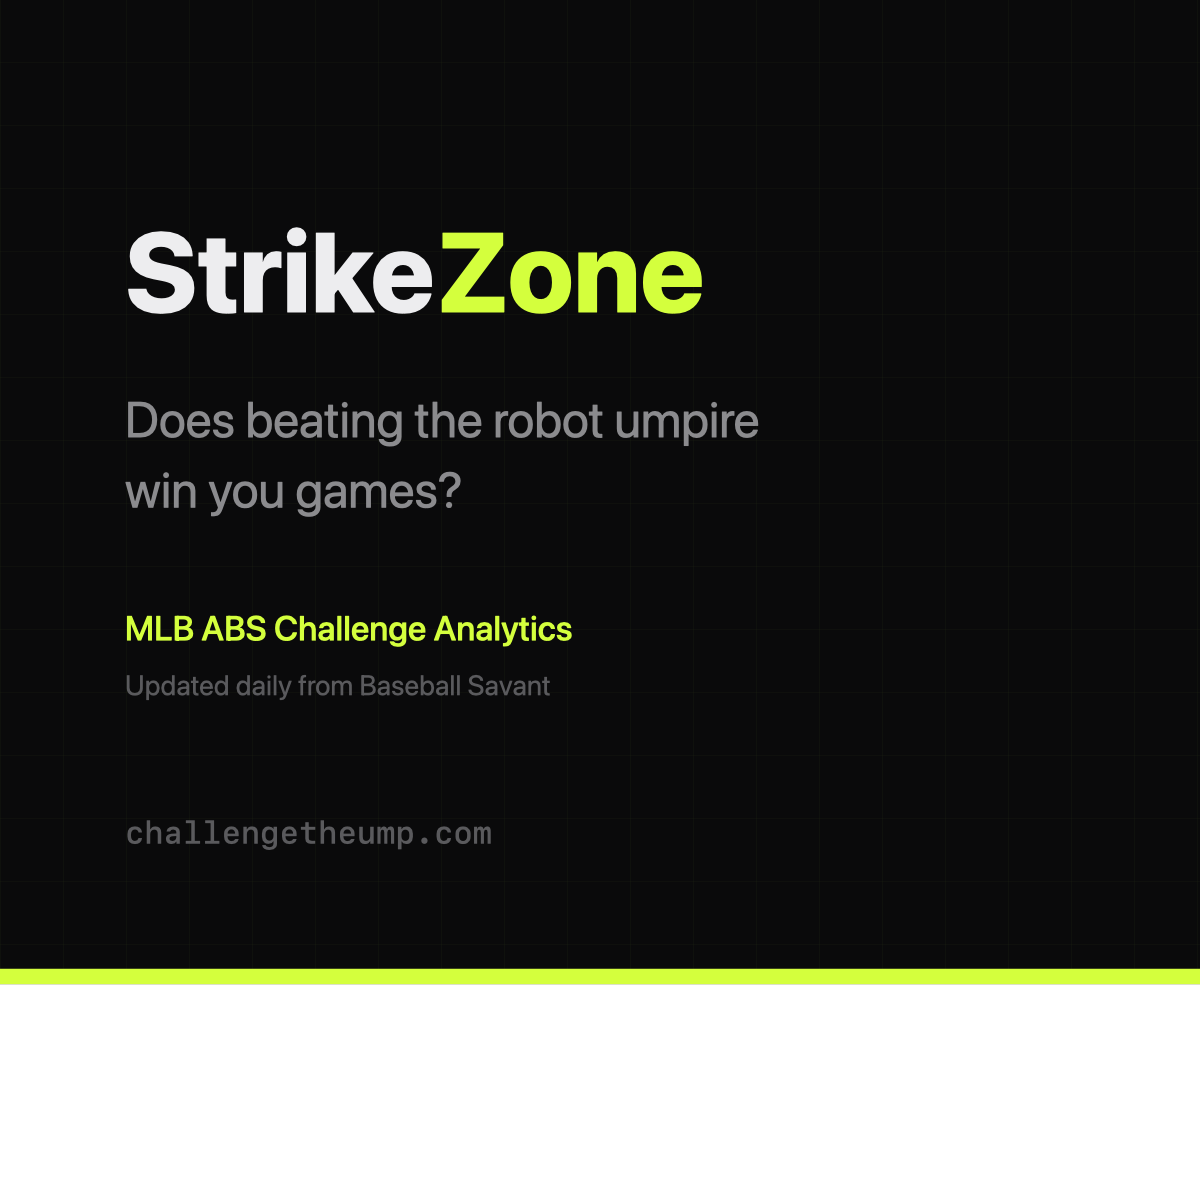
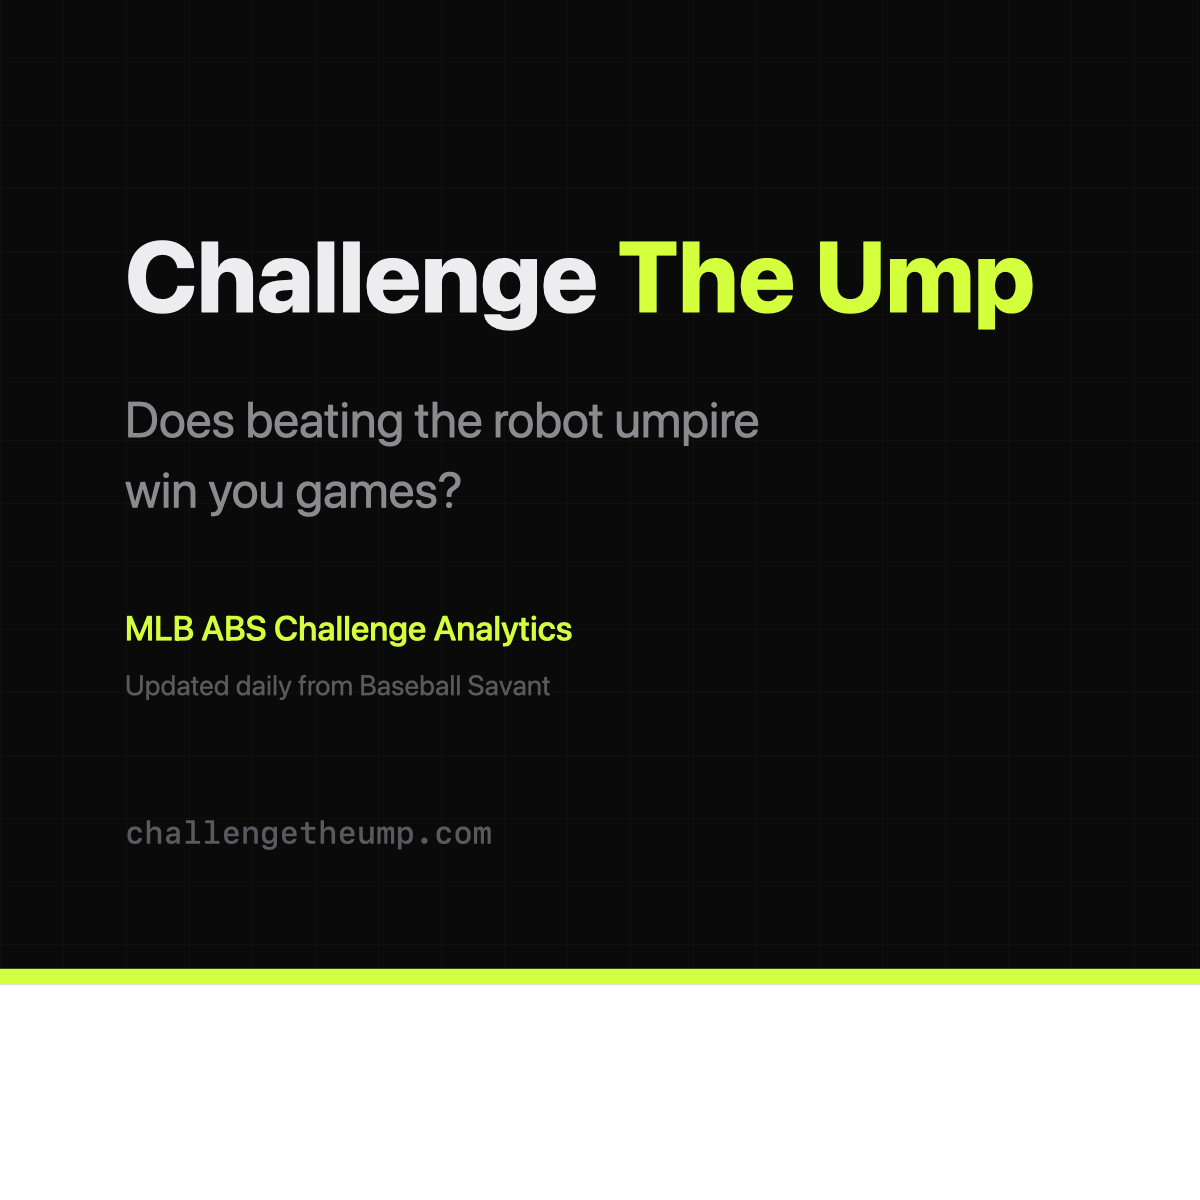
rebrand: StrikeZone → Challenge The Ump
- Update logo.svg wordmark to "Challenge The Ump"
- Update siteName, page titles, meta descriptions, JSON-LD
- Update footer, header, about, homepage, feed.xml, styleguide
- Regenerate OG image with new brand name
- Remove all remaining "StrikeZone" references

Changed region(s): [[0.0925, 0.185, 0.8633, 0.2775]]

diff --git a/src/pages/feed.xml.ts b/src/pages/feed.xml.ts
@@ -35,7 +35,7 @@ export const GET: APIRoute = () => {
   const xml = `<?xml version="1.0" encoding="UTF-8"?>
 <rss version="2.0" xmlns:atom="http://www.w3.org/2005/Atom">
   <channel>
-    <title>StrikeZone — MLB ABS Challenge Analytics</title>
+    <title>Challenge The Ump — MLB ABS Challenge Analytics</title>
     <description>Daily updates on MLB ABS Challenge System performance, success rates, and team rankings.</description>
     <link>${site}</link>
     <atom:link href="${site}/feed.xml" rel="self" type="application/rss+xml" />

diff --git a/README.md b/README.md
@@ -1,4 +1,4 @@
-# StrikeZone
+# Challenge The Ump
 
 **Does beating the robot umpire win you games?**
 
